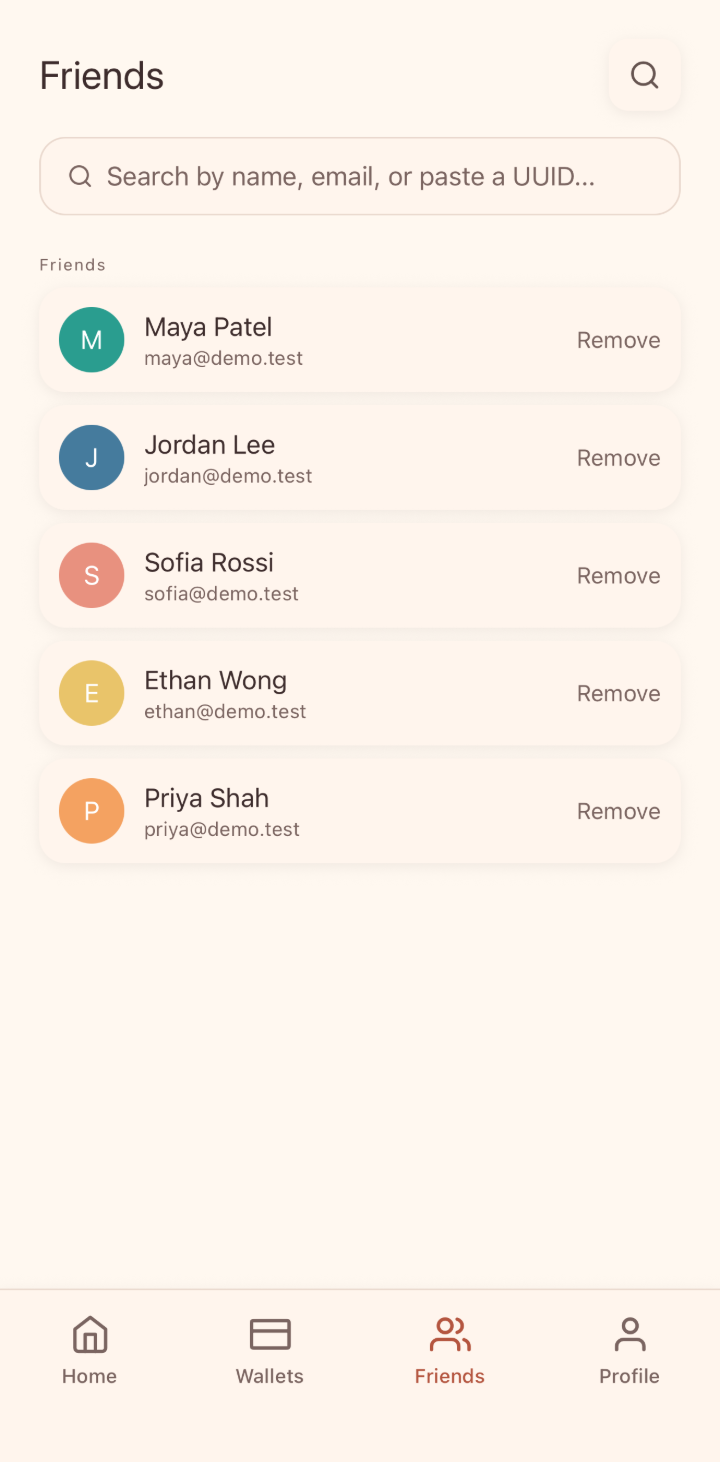
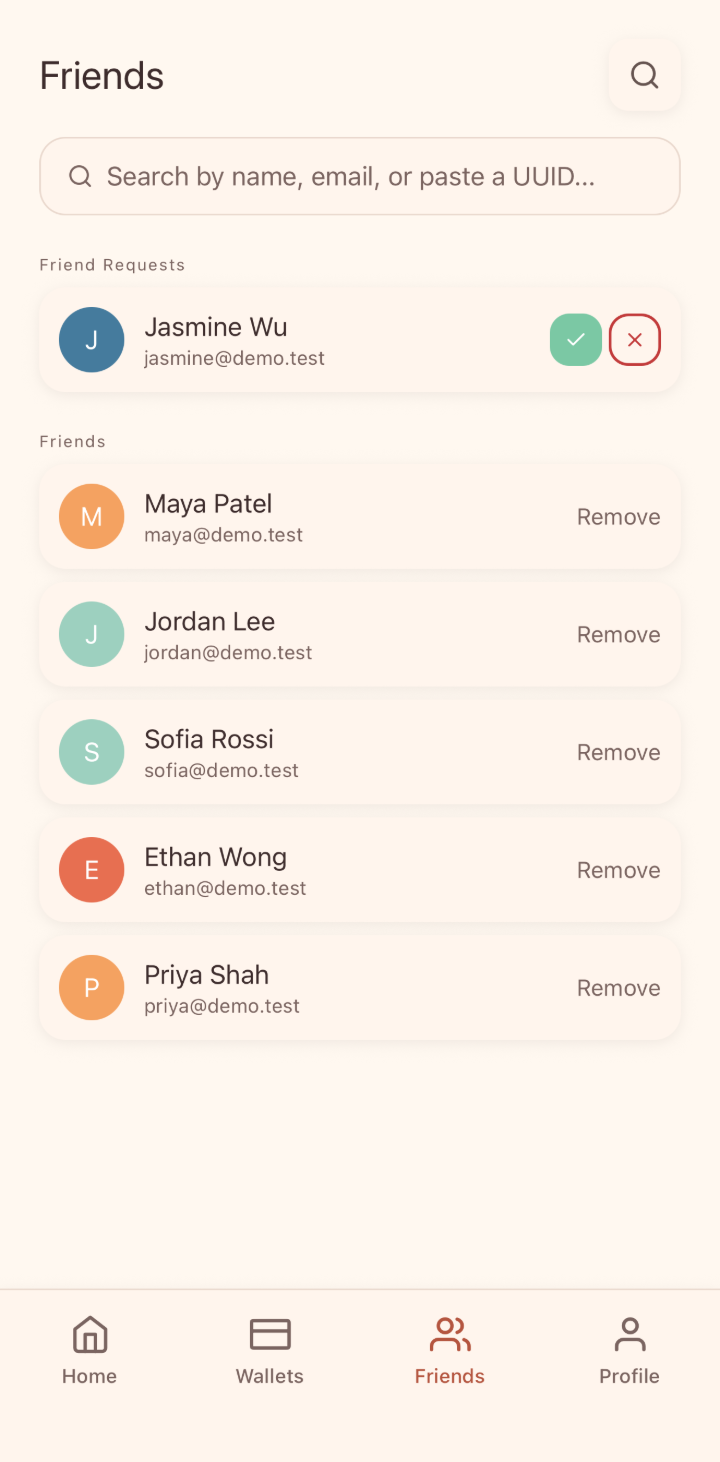
Spin between two screens per row instead of iOS and Android
The two platforms looked nearly the same, so the swap showed nothing new. Each
row now pairs two different screens: home with spending charts, the
transaction list with an expense's splits, friends with search. The captures
are fresh iOS ones after the wallet-tab fix; the Android images are gone.

diff --git a/components/Screenshots.tsx b/components/Screenshots.tsx
@@ -3,11 +3,12 @@
 import Image from "next/image";
 import { useRef, useEffect, useState, useSyncExternalStore, type ReactNode } from "react";
 import { useLanguage } from "@/context/LanguageContext";
+import type { ScreenItem } from "@/lib/translations/types";
 
 const screenMeta = [
-  { file: "home-dashboard.png", placeholder: "home-dashboard", tagColor: "var(--piggy-primary-dark)", tagBg: "var(--piggy-primary-light)" },
-  { file: "wallet-detail.png",  placeholder: "wallet-detail",  tagColor: "#4AA08C",                   tagBg: "var(--piggy-accent-light)"    },
-  { file: "friends.png",        placeholder: "friends",         tagColor: "#B5862A",                   tagBg: "#FFE4A8"                       },
+  { files: ["home-dashboard.png", "spending-charts.png"], placeholder: "home-dashboard", tagColor: "var(--piggy-primary-dark)", tagBg: "var(--piggy-primary-light)" },
+  { files: ["wallet-detail.png", "expense-detail.png"],  placeholder: "wallet-detail",  tagColor: "#4AA08C",                   tagBg: "var(--piggy-accent-light)"    },
+  { files: ["friends.png", "friend-search.png"],        placeholder: "friends",         tagColor: "#B5862A",                   tagBg: "#FFE4A8"                       },
 ];
 
 export default function Screenshots() {
@@ -54,7 +55,7 @@ function ScreenRow({
   index,
   flip,
 }: {
-  screen: { tag: string; headline: string; description: string; bullets: string[] };
+  screen: ScreenItem;
   meta: typeof screenMeta[0];
   index: number;
   flip: boolean;
@@ -84,7 +85,7 @@ function ScreenRow({
       }}
     >
       <div className="flex-shrink-0 flex justify-center">
-        <PhoneOrbit meta={meta} index={index} />
+        <PhoneOrbit meta={meta} index={index} views={screen.views} />
       </div>
 
       {/* Copy */}
@@ -126,14 +127,12 @@ function ScreenRow({
   );
 }
 
-type Platform = "ios" | "android";
-const PLATFORMS: Platform[] = ["ios", "android"];
 // Front phone's resting angle on the ring; the other sits opposite, peeking out behind
 const REST_ANGLE = -22;
 const SPIN_MS = 750;
 
-// iOS and Android phones on one horizontal ring; a tap spins the ring half a turn to swap them
-function PhoneOrbit({ meta, index }: { meta: typeof screenMeta[0]; index: number }) {
+// Two screens on one horizontal ring; a tap spins the ring half a turn to swap them
+function PhoneOrbit({ meta, index, views }: { meta: typeof screenMeta[0]; index: number; views: [string, string] }) {
   const { t } = useLanguage();
   const [spin, setSpin] = useState(0);
   const radius = useIsNarrow() ? 64 : 110;
@@ -142,7 +141,7 @@ function PhoneOrbit({ meta, index }: { meta: typeof screenMeta[0]; index: number
 
   useEffect(() => () => cancelAnimationFrame(frame.current), []);
 
-  const front: Platform = Math.round(spin / 180) % 2 === 0 ? "ios" : "android";
+  const front = Math.round(spin / 180) % 2;
 
   const swap = () => {
     const from = spinRef.current;
@@ -169,17 +168,17 @@ function PhoneOrbit({ meta, index }: { meta: typeof screenMeta[0]; index: number
       <button
         type="button"
         onClick={swap}
-        aria-label={front === "ios" ? t.screenshots.showAndroid : t.screenshots.showIos}
+        aria-label={t.screenshots.showView.replace("{name}", views[1 - front])}
         className="relative w-[220px] sm:w-[250px] h-[460px] sm:h-[520px] cursor-pointer rounded-[40px] focus-visible:outline focus-visible:outline-4 focus-visible:outline-offset-8"
         style={{ outlineColor: "var(--piggy-primary)" }}
       >
         <div className="absolute inset-0 blur-2xl opacity-25 scale-90" style={{ background: meta.tagBg }} />
-        {PLATFORMS.map((platform, i) => {
+        {meta.files.map((file, i) => {
           const angle = ((REST_ANGLE + i * 180 + spin) * Math.PI) / 180;
           const depth = (Math.cos(angle) + 1) / 2; // 1 = front of the ring, 0 = back
           return (
             <div
-              key={platform}
+              key={file}
               className="absolute inset-0"
               style={{
                 transform: `translateX(${Math.sin(angle) * radius}px) scale(${0.78 + 0.22 * depth})`,
@@ -187,9 +186,9 @@ function PhoneOrbit({ meta, index }: { meta: typeof screenMeta[0]; index: number
                 filter: `brightness(${0.75 + 0.25 * depth})`,
               }}
             >
-              <PhoneFrame platform={platform}>
+              <PhoneFrame>
                 <ScreenImage
-                  file={platform === "ios" ? meta.file : meta.file.replace(".png", "-android.png")}
+                  file={file}
                   placeholder={meta.placeholder}
                   index={index}
                   tagBg={meta.tagBg}
@@ -200,10 +199,12 @@ function PhoneOrbit({ meta, index }: { meta: typeof screenMeta[0]; index: number
         })}
       </button>
       <p className="text-xs font-bold" style={{ color: "var(--text-tertiary)" }} aria-hidden="true">
-        <span style={{ color: front === "ios" ? "var(--text-primary)" : undefined }}>iOS</span>
-        {" · "}
-        <span style={{ color: front === "android" ? "var(--text-primary)" : undefined }}>Android</span>
-        {" · "}
+        {views.map((view, i) => (
+          <span key={view} style={{ color: front === i ? "var(--text-primary)" : undefined }}>
+            {view}
+            {" · "}
+          </span>
+        ))}
         {t.screenshots.tapToSwitch}
       </p>
     </div>
@@ -223,19 +224,17 @@ function useIsNarrow() {
   );
 }
 
-function PhoneFrame({ platform, children }: { platform: Platform; children: ReactNode }) {
-  const ios = platform === "ios";
+function PhoneFrame({ children }: { children: ReactNode }) {
   return (
     <div
-      className={`relative w-full h-full overflow-hidden ${ios ? "rounded-[40px]" : "rounded-[30px]"}`}
+      className="relative w-full h-full overflow-hidden rounded-[40px]"
       style={{
         background: "#1a1a2e",
         boxShadow: "0 0 0 2px #333, 0 24px 60px rgba(0,0,0,0.35), inset 0 0 0 1px rgba(255,255,255,0.06)",
       }}
     >
       <div className="flex justify-center pt-3 pb-1" style={{ background: "#1a1a2e" }}>
-        {/* Dynamic Island on iOS, a punch-hole camera on Android */}
-        <div className={ios ? "w-20 h-5 rounded-full" : "w-4 h-4 my-0.5 rounded-full"} style={{ background: "#0d0d1a" }} />
+        <div className="w-20 h-5 rounded-full" style={{ background: "#0d0d1a" }} />
       </div>
       <div className="w-full" style={{ height: "calc(100% - 36px)", position: "relative" }}>
         {children}

diff --git a/lib/translations/zh.ts b/lib/translations/zh.ts
@@ -106,8 +106,7 @@ export const zh: Translations = {
     headline: "設計靈感，",
     headlineGradient: "輕鬆自在",
     subtitle: "簡潔、溫暖、快速。每個畫面都旨在讓你快速完成任務、毫不費力。",
-    showIos: "顯示 iOS 版本",
-    showAndroid: "顯示 Android 版本",
+    showView: "顯示{name}",
     tapToSwitch: "點按切換",
     screens: [
       {
@@ -115,18 +114,21 @@ export const zh: Translations = {
         headline: "看清每一分去哪了。",
         description: "餘額、收入、支出——全在首頁一覽無遺。內建類別圖表和月度趨勢。",
         bullets: ["類別圓餅圖", "月度趨勢折線圖", "收入 vs 支出視圖"],
+        views: ["主頁", "消費圖表"],
       },
       {
         tag: "共享錢包",
         headline: "一個錢包，大家同步。",
         description: "每位成員查看每筆交易。優先顯示待你處理的項目、下拉刷新、一鍵結算。",
         bullets: ["篩選待你處理的項目", "成員即時更新", "隨時匯出 CSV"],
+        views: ["交易記錄", "交易詳情"],
       },
       {
         tag: "好友",
         headline: "你的圈子，連結在一起。",
         description: "透過用戶名或分享連結添加好友。管理好友請求、已接受的好友及個人資料分享。",
         bullets: ["透過電子郵件或用戶名搜尋", "分享個人資料連結", "接受或拒絕請求"],
+        views: ["好友", "搜尋"],
       },
     ],
   },

diff --git a/lib/translations/en.ts b/lib/translations/en.ts
@@ -106,8 +106,7 @@ export const en: Translations = {
     headline: "Designed to feel",
     headlineGradient: "effortless",
     subtitle: "Clean, warm, and fast. Every screen built around getting you in and out without friction.",
-    showIos: "Show the iOS version",
-    showAndroid: "Show the Android version",
+    showView: "Show {name}",
     tapToSwitch: "Tap to switch",
     screens: [
       {
@@ -115,18 +114,21 @@ export const en: Translations = {
         headline: "See where it all goes.",
         description: "Balance, income, expenses — all on the home screen. Category charts and monthly trends built in.",
         bullets: ["Category pie chart", "Monthly trend line", "Income vs expense view"],
+        views: ["Home", "Spending charts"],
       },
       {
         tag: "Shared Wallets",
         headline: "One wallet, everyone in sync.",
         description: "Every member sees every transaction. See what needs you first, pull to refresh, settle in one tap.",
         bullets: ["Filter by what needs you", "Real-time member updates", "CSV export anytime"],
+        views: ["Transactions", "Expense detail"],
       },
       {
         tag: "Friends",
         headline: "Your squad, connected.",
         description: "Add by username or share your link. Requests, accepted friends, and quick profile sharing.",
         bullets: ["Search by email or username", "Share your profile link", "Accept or decline requests"],
+        views: ["Friends", "Search"],
       },
     ],
   },

diff --git a/lib/translations/types.ts b/lib/translations/types.ts
@@ -36,6 +36,7 @@ export type ScreenItem = {
   headline: string;
   description: string;
   bullets: string[];
+  views: [string, string];
 };
 
 export type Translations = {
@@ -93,8 +94,7 @@ export type Translations = {
     headlineGradient: string;
     subtitle: string;
     screens: ScreenItem[];
-    showIos: string;
-    showAndroid: string;
+    showView: string;
     tapToSwitch: string;
   };
   downloadCta: {
